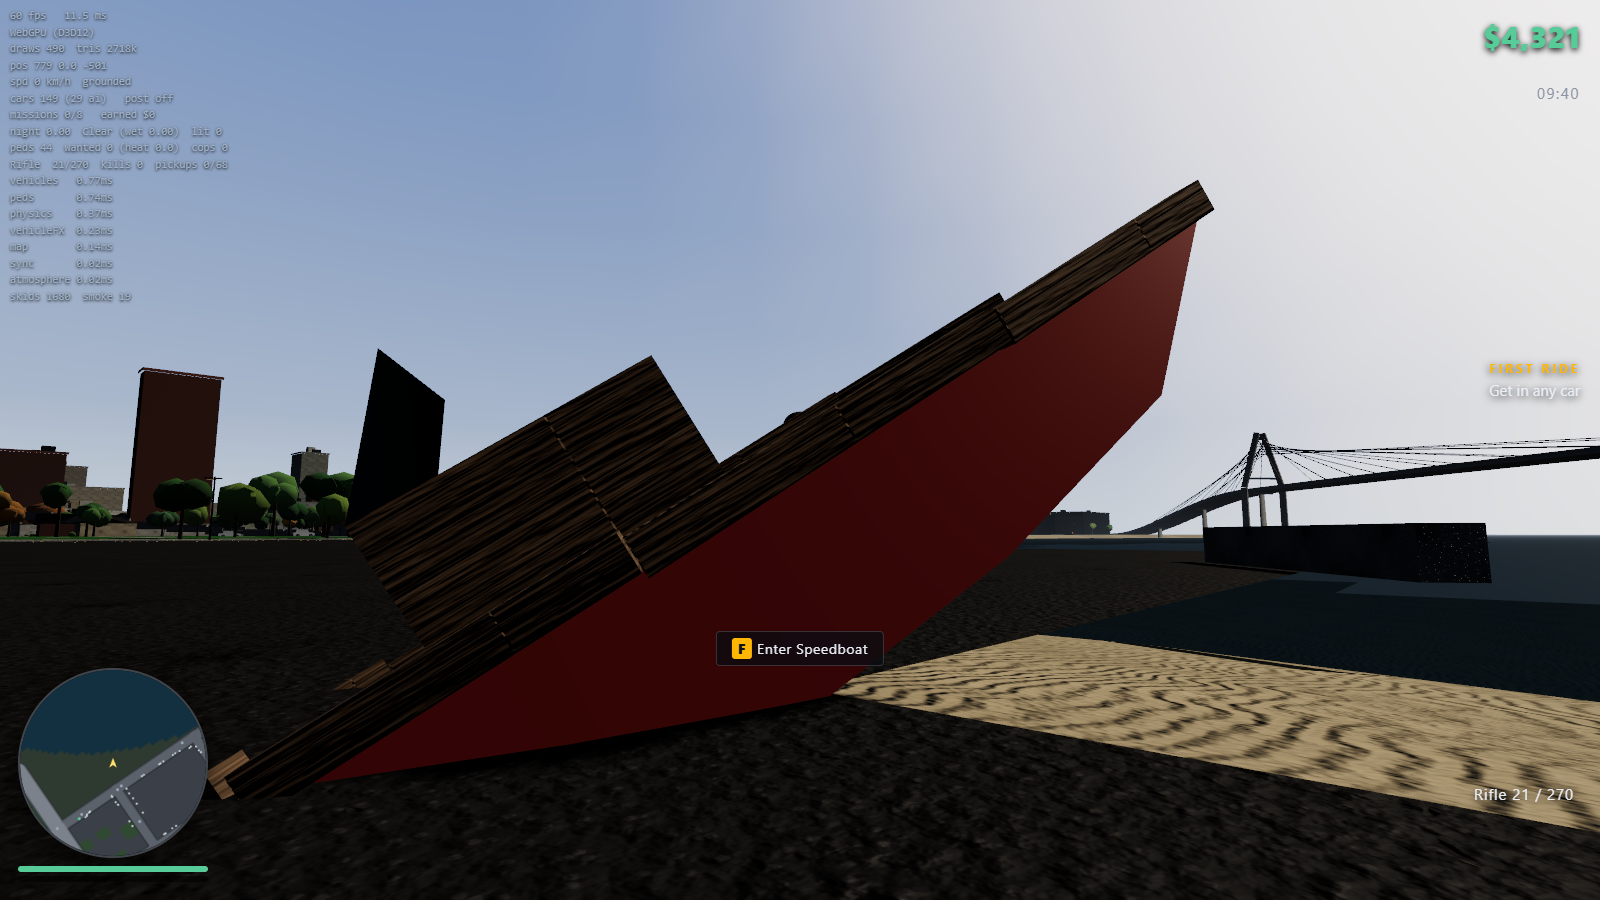
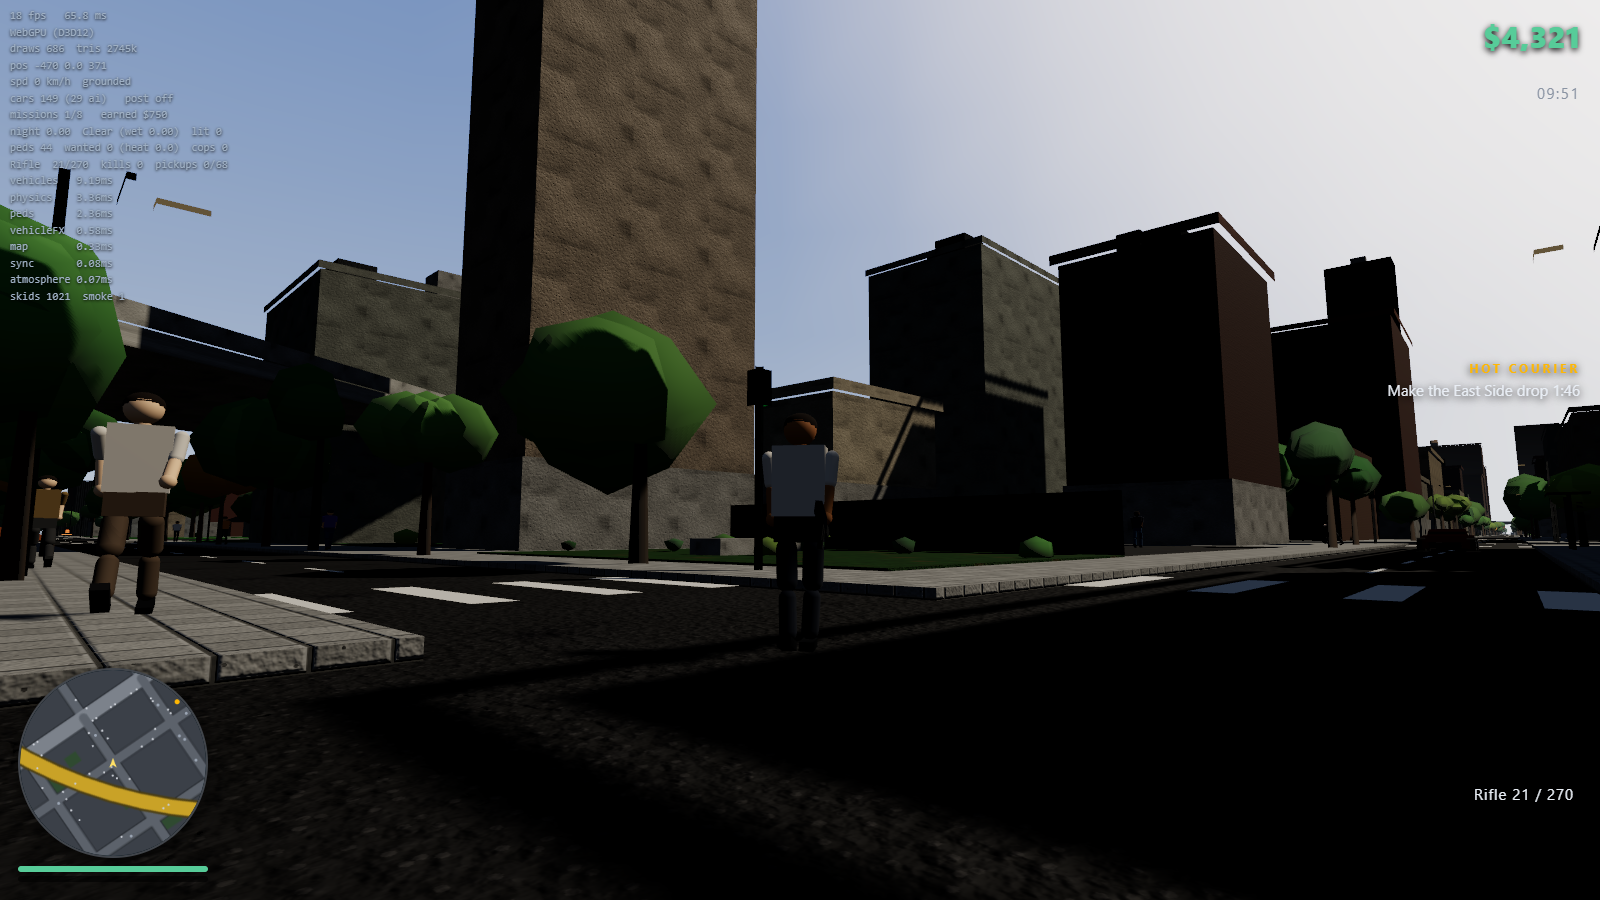
GTA: smoke test now completes a mission end to end
The test drives a full mission the way a player does: walk into the start marker
to trigger it, get in a car to clear the steal objective, then drive the last
stretch under throttle so arrival is real motion into the trigger radius. It
asserts the mission reaches 'complete', the completion counter increments, and
the reward lands in the player's money (2500 -> 3250). 20 checks, all passing,
running at real time.

Two bugs, both in the test rather than the game. Measuring progress from
player.position reads a stale value while driving, because Player.update returns
early in that state and Missions._playerPoint reads the vehicle instead. And
teleporting the mission car forty metres back along the straight line from the
start drops it inside a city block, where it sits at full throttle reading zero -
indistinguishable from a broken drivetrain until you record top speed.

diff --git a/Brainstorming/GTA/tools/smoke-probe.js b/Brainstorming/GTA/tools/smoke-probe.js
@@ -7,6 +7,13 @@ let simT = 0; E.fixedCallbacks.push((dt) => { simT += dt; });
 const wait = async (sec) => { const t = simT + sec;
   while (simT < t && performance.now() - T0 < BUDGET) await new Promise(r => requestAnimationFrame(r)); };
 const out = () => performance.now() - T0 > BUDGET;
+// Where the game thinks the player is. Player.update returns early while DRIVING, so
+// player.position is stale in a car - Missions._playerPoint reads the vehicle instead,
+// and any test measuring progress has to do the same or it measures a parked corpse.
+const here = () => { const c = g.traffic.playerVehicle;
+  if (!c) return g.player.position;
+  const t = c.body.translation(); return { x: t.x, y: t.y, z: t.z }; };
+const distTo = (q) => Math.hypot(here().x - q.x, here().z - q.z);
 const down = (code) => window.dispatchEvent(new KeyboardEvent('keydown', { code, bubbles: true }));
 const up = (code) => window.dispatchEvent(new KeyboardEvent('keyup', { code, bubbles: true }));
 const tap = async (c) => { down(c); await wait(0.2); up(c); await wait(0.4); };
@@ -43,10 +50,76 @@ if (!out()) {
   }
 }
 
-const m = g.missions.missions.find(x => x.state === 'available');
-g.missions.start(m); await wait(1);
-ok('mission starts', g.missions.active === m, m.name);
+// --- mission, start to reward -------------------------------------------------
+// The cross-city commute is skipped by teleporting the car, but every state
+// transition is driven the way a player drives it: walk into the start marker,
+// get in a car to clear the steal objective, then drive the last stretch under
+// throttle so arrival is real motion into the trigger radius.
+const m = g.missions.missions.find(x => x.id === 'first-ride') || g.missions.missions[0];
+const moneyBefore = g.money, doneBefore = g.missions.completed;
+g.player.body.setTranslation({ x: m.start.x, y: 1.2, z: m.start.z }, true);
+await wait(1.2);
+ok('mission triggers on approach', g.missions.active === m, m.name);
 ok('mission gives an objective', !!g.missions.currentObjective, g.missions.statusLine);
+
+const mcar = g.starterCar;
+mcar.body.setTranslation({ x: m.start.x + 4, y: 1.5, z: m.start.z }, true);
+mcar.body.setLinvel({ x: 0, y: 0, z: 0 }, true);
+await wait(0.6);
+g.player.body.setTranslation({ x: m.start.x + 2.5, y: 1.2, z: m.start.z }, true);
+await wait(0.6);
+await tap('KeyF');
+await wait(0.6);
+ok('steal objective clears on entering a car', g.missions.objectiveIndex > 0, g.missions.statusLine);
+
+const goal = g.missions.currentObjective && g.missions.currentObjective.at;
+if (goal && g.traffic.playerVehicle === mcar) {
+  /*
+   * Drop the car on an actual road running into the goal, not 40 m back along the
+   * straight line from the mission start - that line cuts through city blocks, and a car
+   * teleported inside a building sits at full throttle going nowhere.
+   */
+  const net = g.city.network;
+  let node = net.nodes[0], nd = Infinity;
+  for (const n of net.nodes) {
+    const d = Math.hypot(n.x - goal.x, n.z - goal.z);
+    if (d < nd) { nd = d; node = n; }
+  }
+  const edge = net.edges[node.edges[0]];
+  const far = net.nodes[edge.a === node.id ? edge.b : edge.a];
+  const ex = far.x - node.x, ez = far.z - node.z;
+  const eL = Math.hypot(ex, ez) || 1;
+  const back = Math.min(45, eL * 0.8);
+  const sx = node.x + (ex / eL) * back, sz = node.z + (ez / eL) * back;
+  const yaw = Math.atan2(goal.x - sx, goal.z - sz);
+  mcar.body.setTranslation({ x: sx, y: 1.5, z: sz }, true);
+  mcar.body.setRotation({ x: 0, y: Math.sin(yaw / 2), z: 0, w: Math.cos(yaw / 2) }, true);
+  mcar.body.setLinvel({ x: 0, y: 0, z: 0 }, true);
+  mcar.body.setAngvel({ x: 0, y: 0, z: 0 }, true);
+  await wait(1);
+  const approach0 = distTo(goal);
+  down('KeyW');
+  let topSpeed = 0;
+  const deadline = simT + 25;
+  while (g.missions.active === m && simT < deadline && !out()) {
+    topSpeed = Math.max(topSpeed, mcar.speedKmh);
+    await wait(0.25);
+  }
+  up('KeyW');
+  ok('mission car actually accelerates', topSpeed > 15, `top ${Math.round(topSpeed)} km/h`);
+  await wait(0.5);
+  const approach1 = distTo(goal);
+  ok('car closes on the objective under throttle', approach1 < approach0 - 15,
+    `${Math.round(approach0)}m -> ${Math.round(approach1)}m`);
+  ok('mission completes', m.state === 'complete', m.state);
+  ok('completion counter increments', g.missions.completed === doneBefore + 1,
+    `${doneBefore} -> ${g.missions.completed}`);
+  ok('reward is paid', g.money === moneyBefore + m.reward,
+    `${moneyBefore} -> ${g.money} (reward ${m.reward})`);
+  if (g.traffic.playerVehicle) await tap('KeyF');
+} else {
+  ok('drive objective reachable', false, 'no goal or not in the mission car');
+}
 
 g.weapons.give('rifle', 90); g.weapons.select('rifle'); await wait(0.4);
 const s0 = g.weapons.shotsFired;

diff --git a/Brainstorming/GTA/README.md b/Brainstorming/GTA/README.md
@@ -354,3 +354,16 @@ visible in a screenshot - the boat still floated, still steered, and the frame s
 It needed a test that got in the boat and kept playing.
 
 Run it with `npm run smoke` against a dev server on 8092.
+
+**Teleporting an entity in a physics world needs a destination that exists.** Completing a
+mission in the smoke test means getting a car to the objective, and the obvious shortcut -
+drop it forty metres short along the straight line from the mission start - puts it inside
+a city block about as often as not. A car spawned inside a building sits at full throttle
+reading zero, which looks exactly like a broken drivetrain. Placing it on an actual road
+node adjacent to the goal fixed it in one go, and recording top speed during the run
+separates "wedged" from "never accelerated" without another debugging round.
+
+**While DRIVING, `player.position` is stale.** `Player.update` returns early in that
+state and the body is not stepped; `Missions._playerPoint` reads the vehicle instead.
+Anything measuring the player's progress has to do the same or it measures a parked
+corpse - the smoke test reported a constant 620 m to a goal it was driving straight at.

diff --git a/Brainstorming/GTA/ROADMAP.md b/Brainstorming/GTA/ROADMAP.md
@@ -100,8 +100,9 @@ Legend: `[ ]` todo `[~]` in progress `[x]` done
 - [x] Profiler + CPU pass: frame CPU 51.5ms -> 17.1ms (sleeping vehicles)
 - [x] Highway traffic on by default (26 cars). Every car holds the deck across 130 s;
       median gap 139 m on the 4 km ring, +1.5 ms over 14 cars
-- [x] End-to-end smoke test (`npm run smoke`): 14 checks driven through real keyboard and
-      mouse events - walk, enter/drive/exit car, enter/drive boat, mission start and
-      objective, weapon fire, wanted level, save/load round-trip. Exits with the failures
-      listed. Found a per-frame exception in the boat HUD path that no screenshot could
+- [x] End-to-end smoke test (`npm run smoke`): 20 checks driven through real keyboard and
+      mouse events - walk, enter/drive/exit car, enter/drive boat, a full mission from
+      trigger through steal objective, drive-in and reward, weapon fire, wanted level,
+      save/load round-trip. Found a per-frame exception in the boat HUD path that no
+      screenshot could, and runs at real time (31 s of simulation in 34 s of wall clock)
 - [ ] Verify 60 fps at 1080p on real GPU hardware (headless numbers are not representative)
